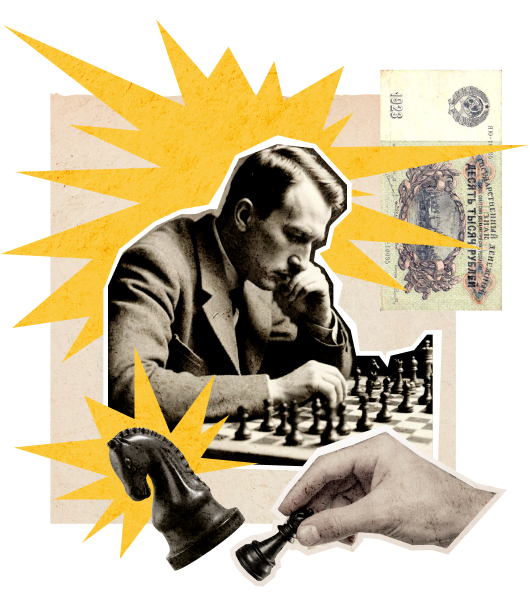
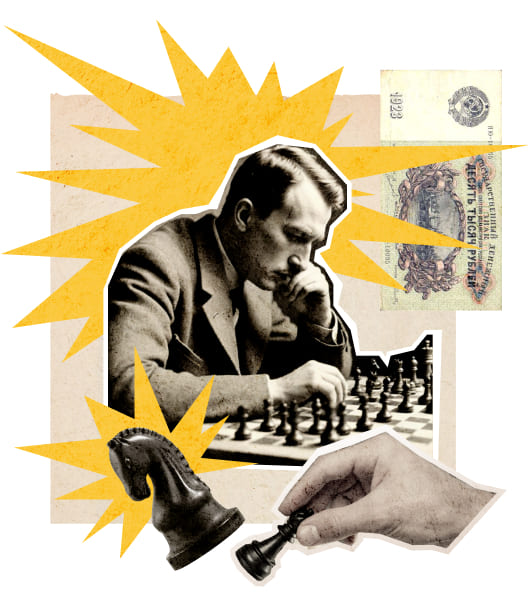
refactor: сжатие картинок

Changed region(s): [[0.6038, 0.4368, 0.634, 0.468]]

diff --git a/index.html b/index.html
@@ -184,13 +184,15 @@
 
         <ul class="cards">
           <li class="cards__item">
-            <img src="./images/person.png" alt="" class="cards__image">
+            <!-- <img src="./images/person.png" alt="" class="cards__image"> -->
+            <img src="./images/Group 16.jpg" alt="" class="cards__image">
             <h4 class="cards__title">Хозе-Рауль Капабланка</h4>
             <p class="cards__text subtitle">Чемпион мира по шахматам</p>
             <a href="#" class="cards__btn btn">Подробнее</a>
           </li>
           <li class="cards__item">
-            <img src="./images/person.png" alt="" class="cards__image">
+            <!-- <img src="./images/person.png" alt="" class="cards__image"> -->
+            <img src="./images/Group 16.svg" alt="" class="cards__image">
             <h4 class="cards__title">Эммануил Ласкер</h4>
             <p class="cards__text subtitle">Чемпион мира по шахматам</p>
             <a href="#" class="cards__btn btn">Подробнее</a>
